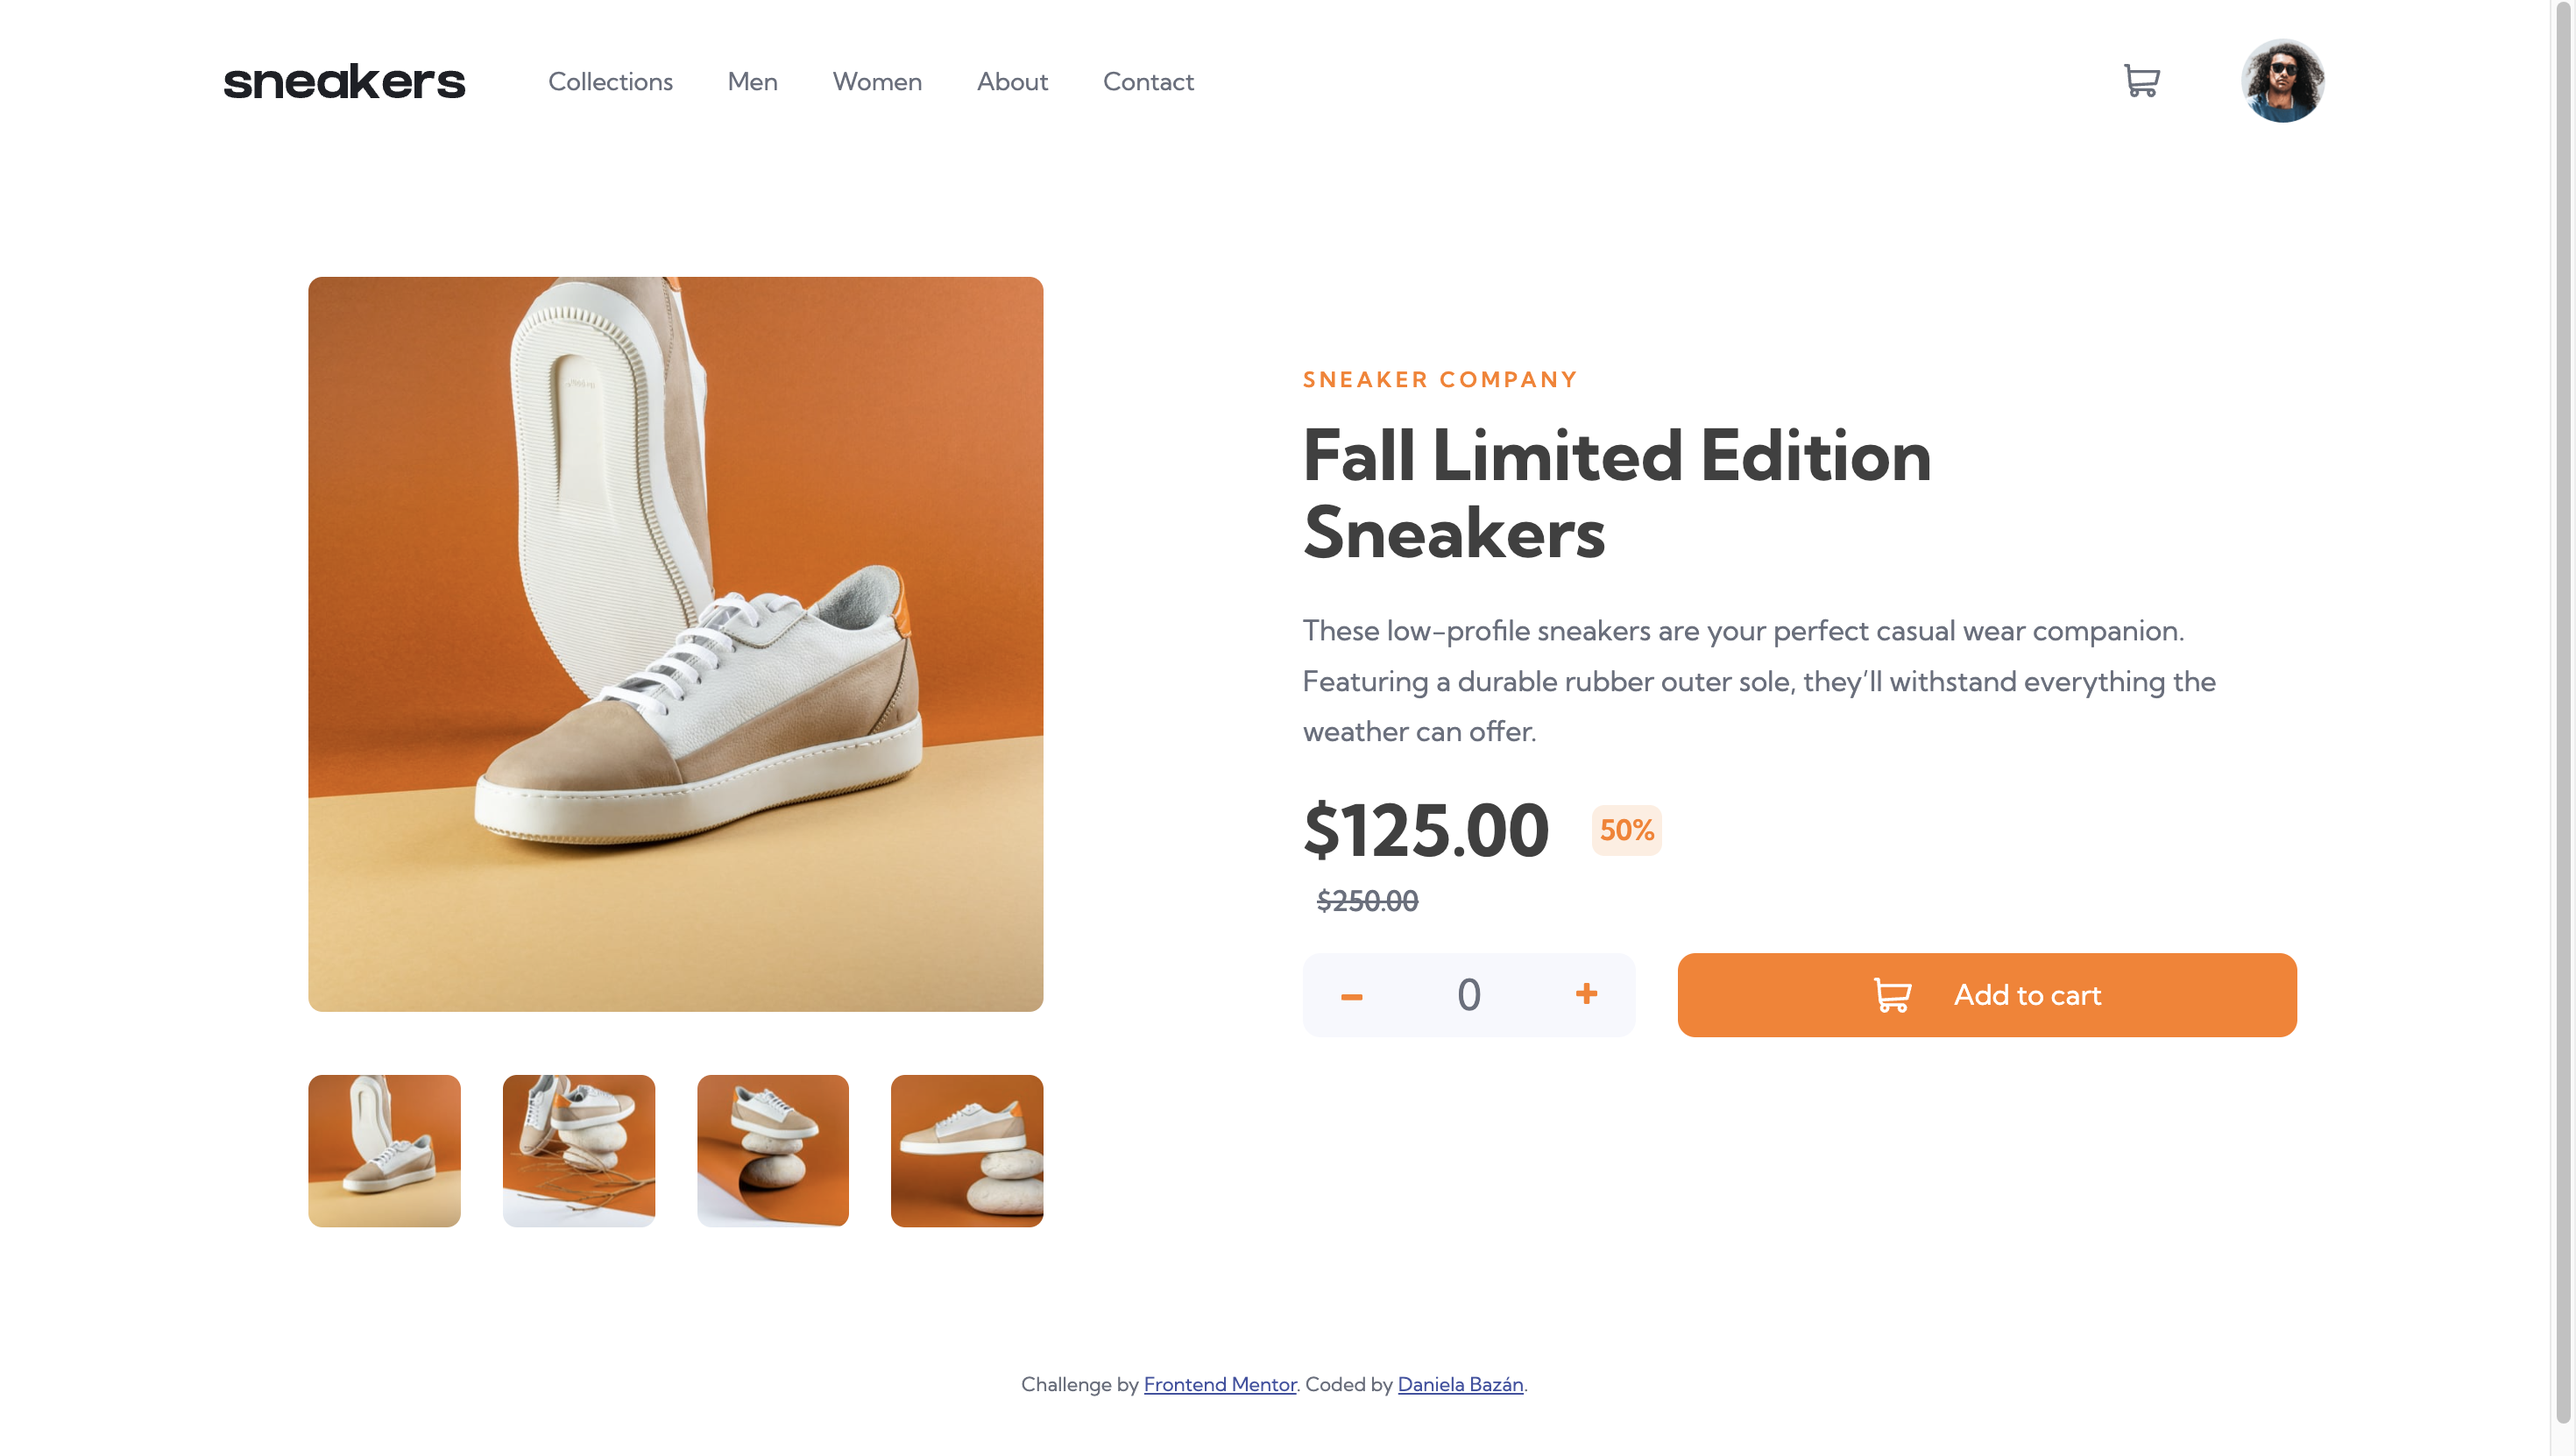
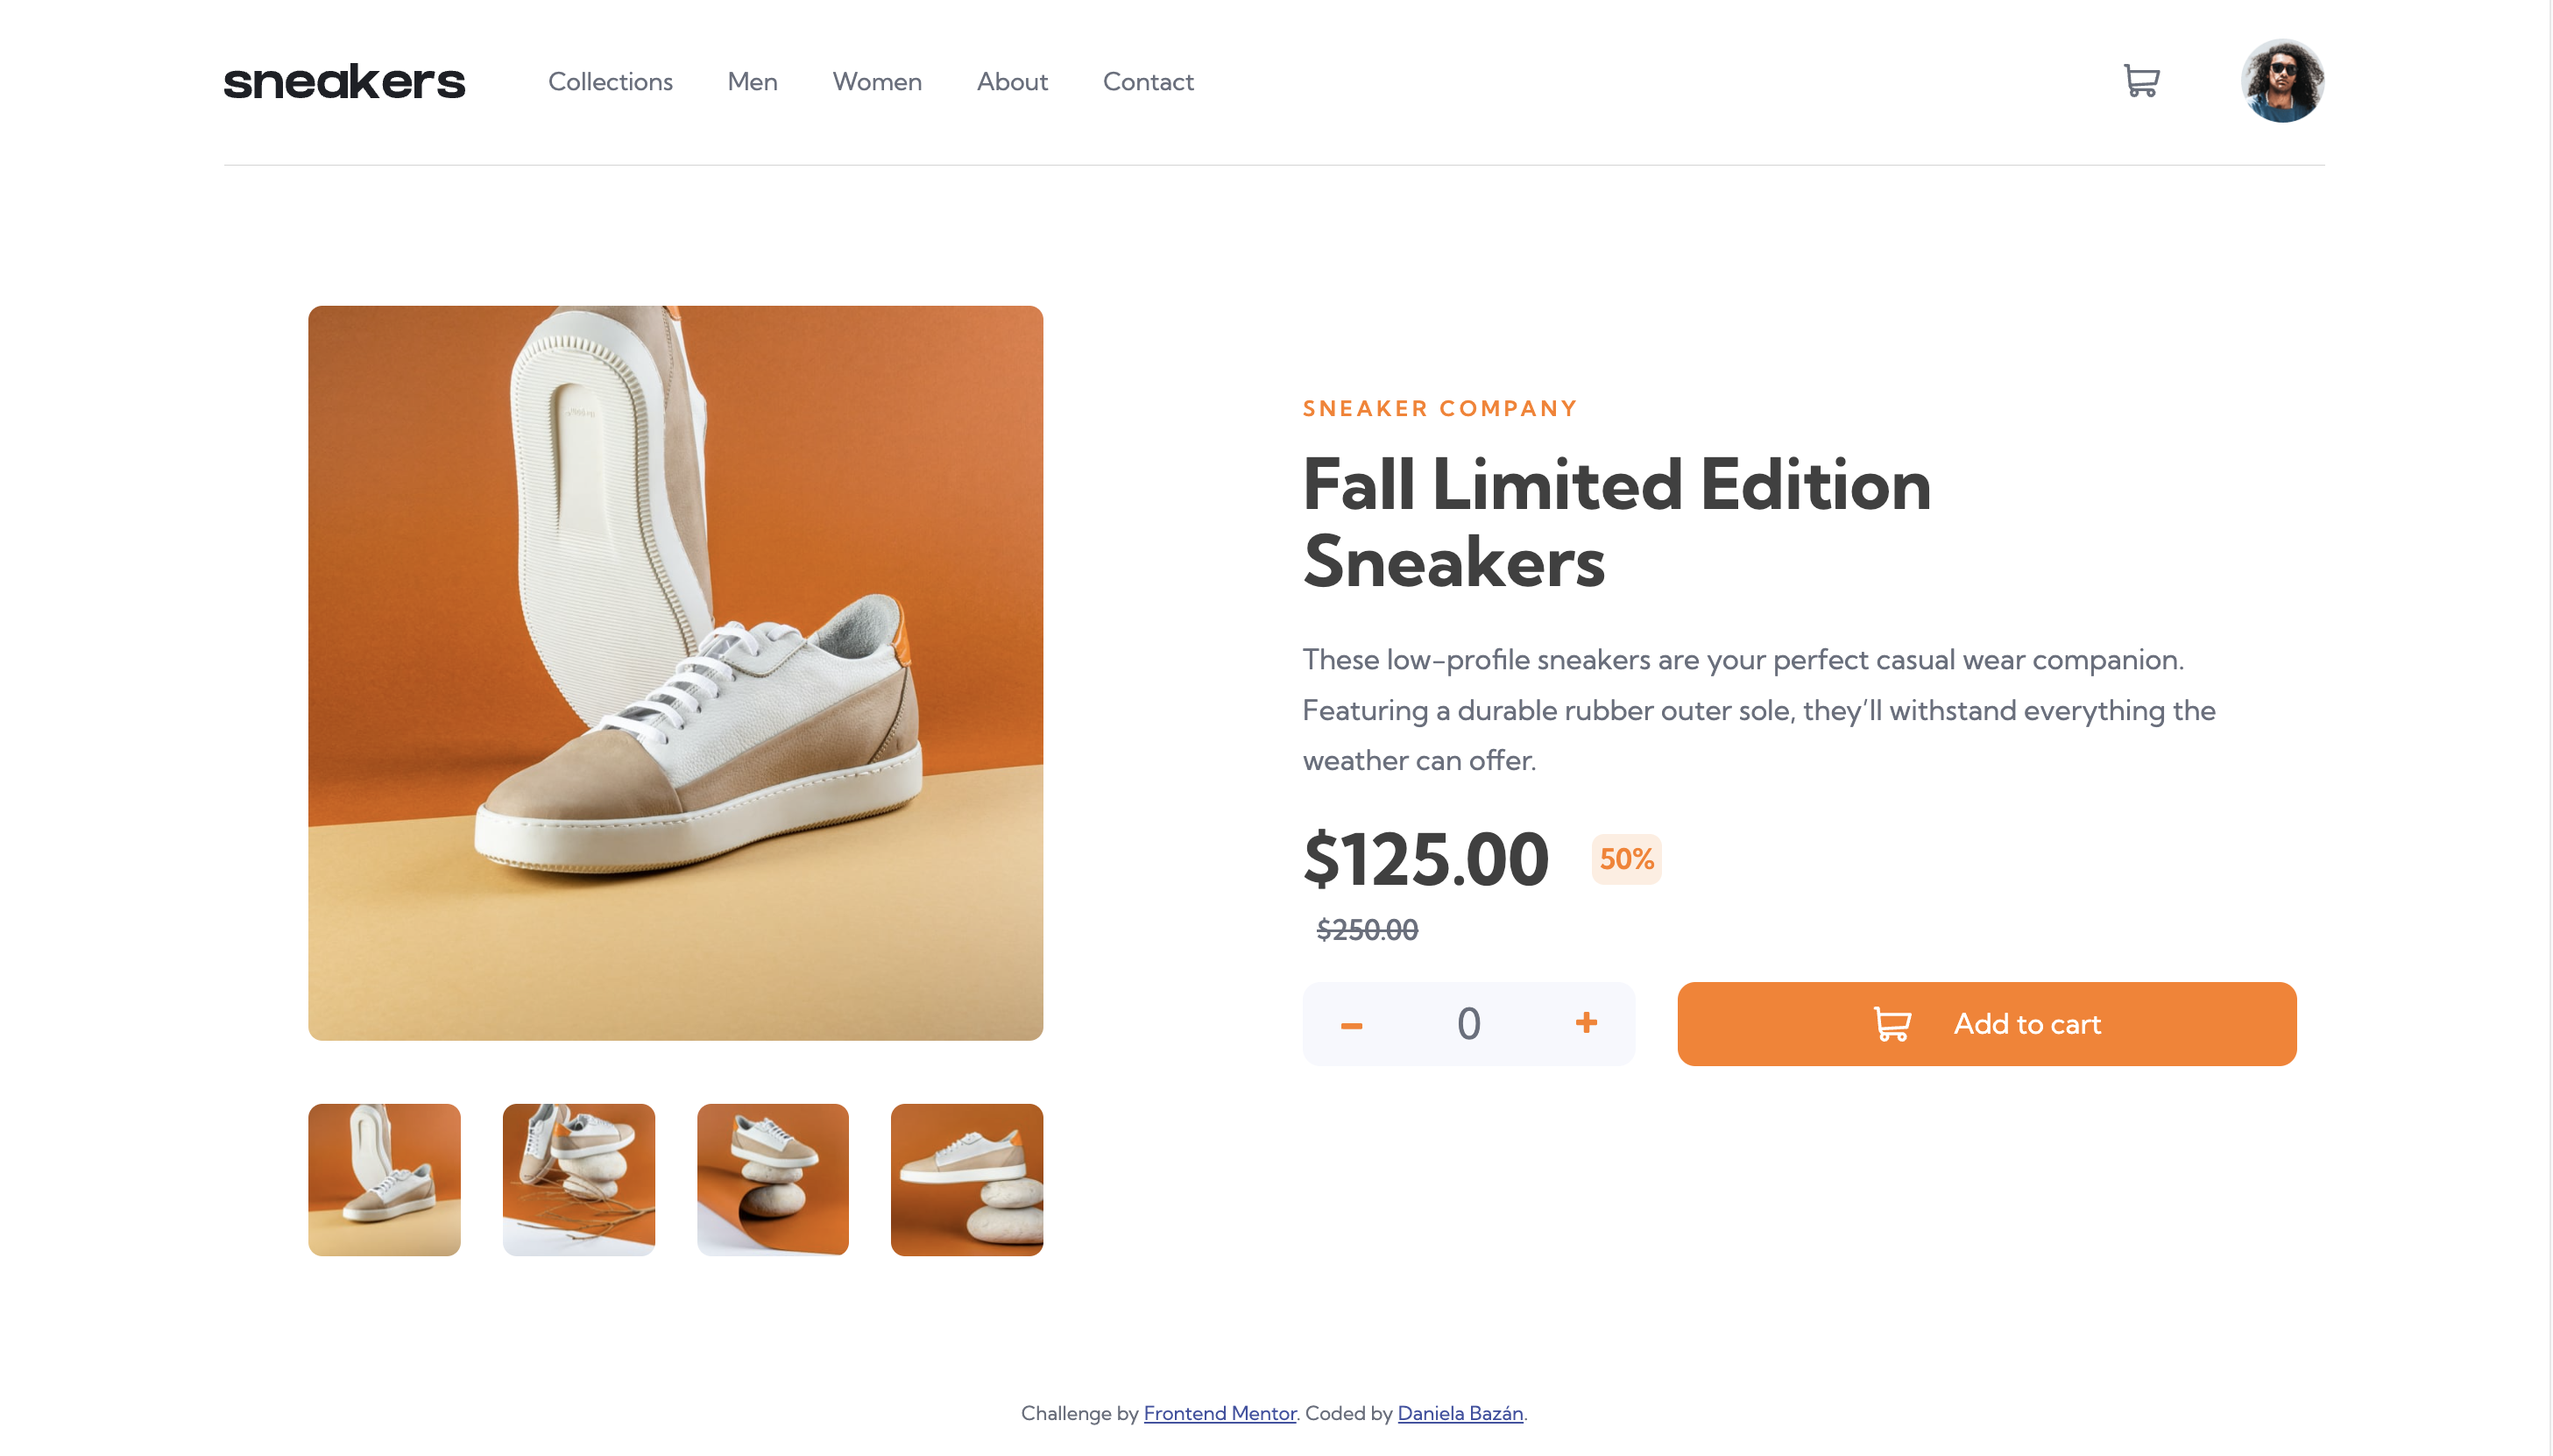
nav underline

diff --git a/index.css b/index.css
@@ -402,7 +402,11 @@ button {
     width: auto;
     height: auto;
     margin: 1rem 8rem;
+    padding-bottom: 1rem;
+    border-bottom: solid 0.2px lightgray;
 }
+
+
 
 .primary-navigation {
     --gap: clamp(.7rem, 3vw, 1.5rem);
